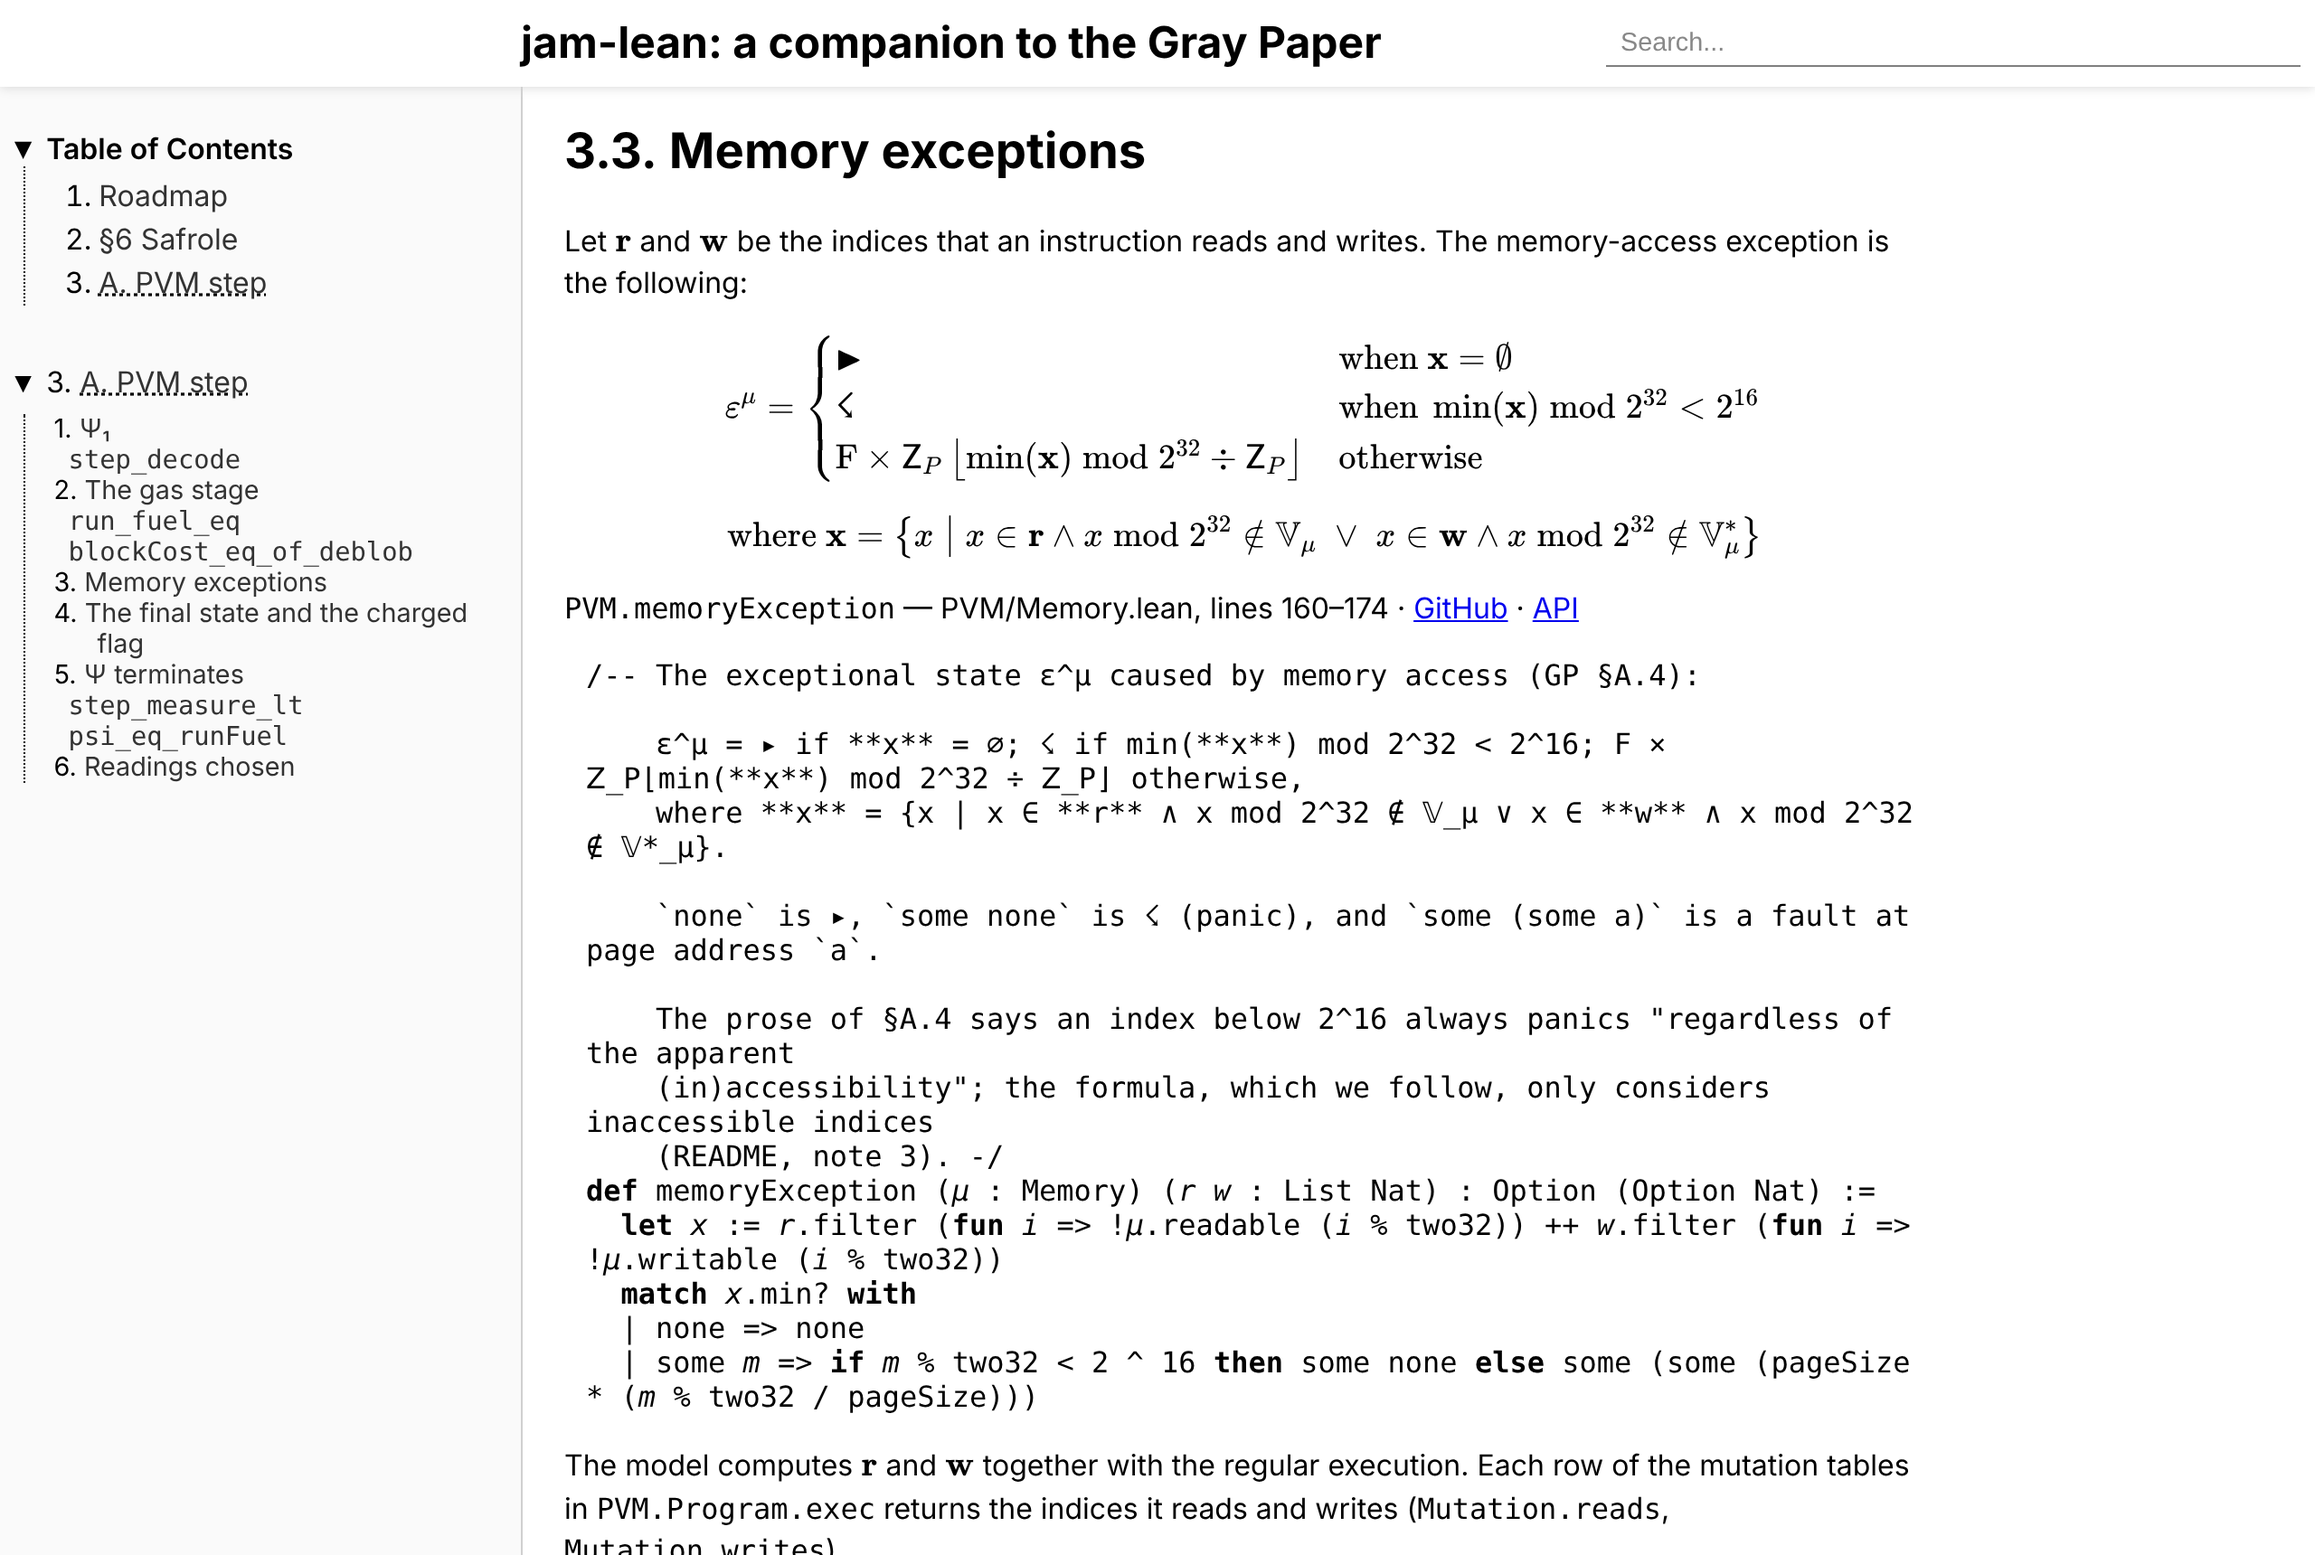
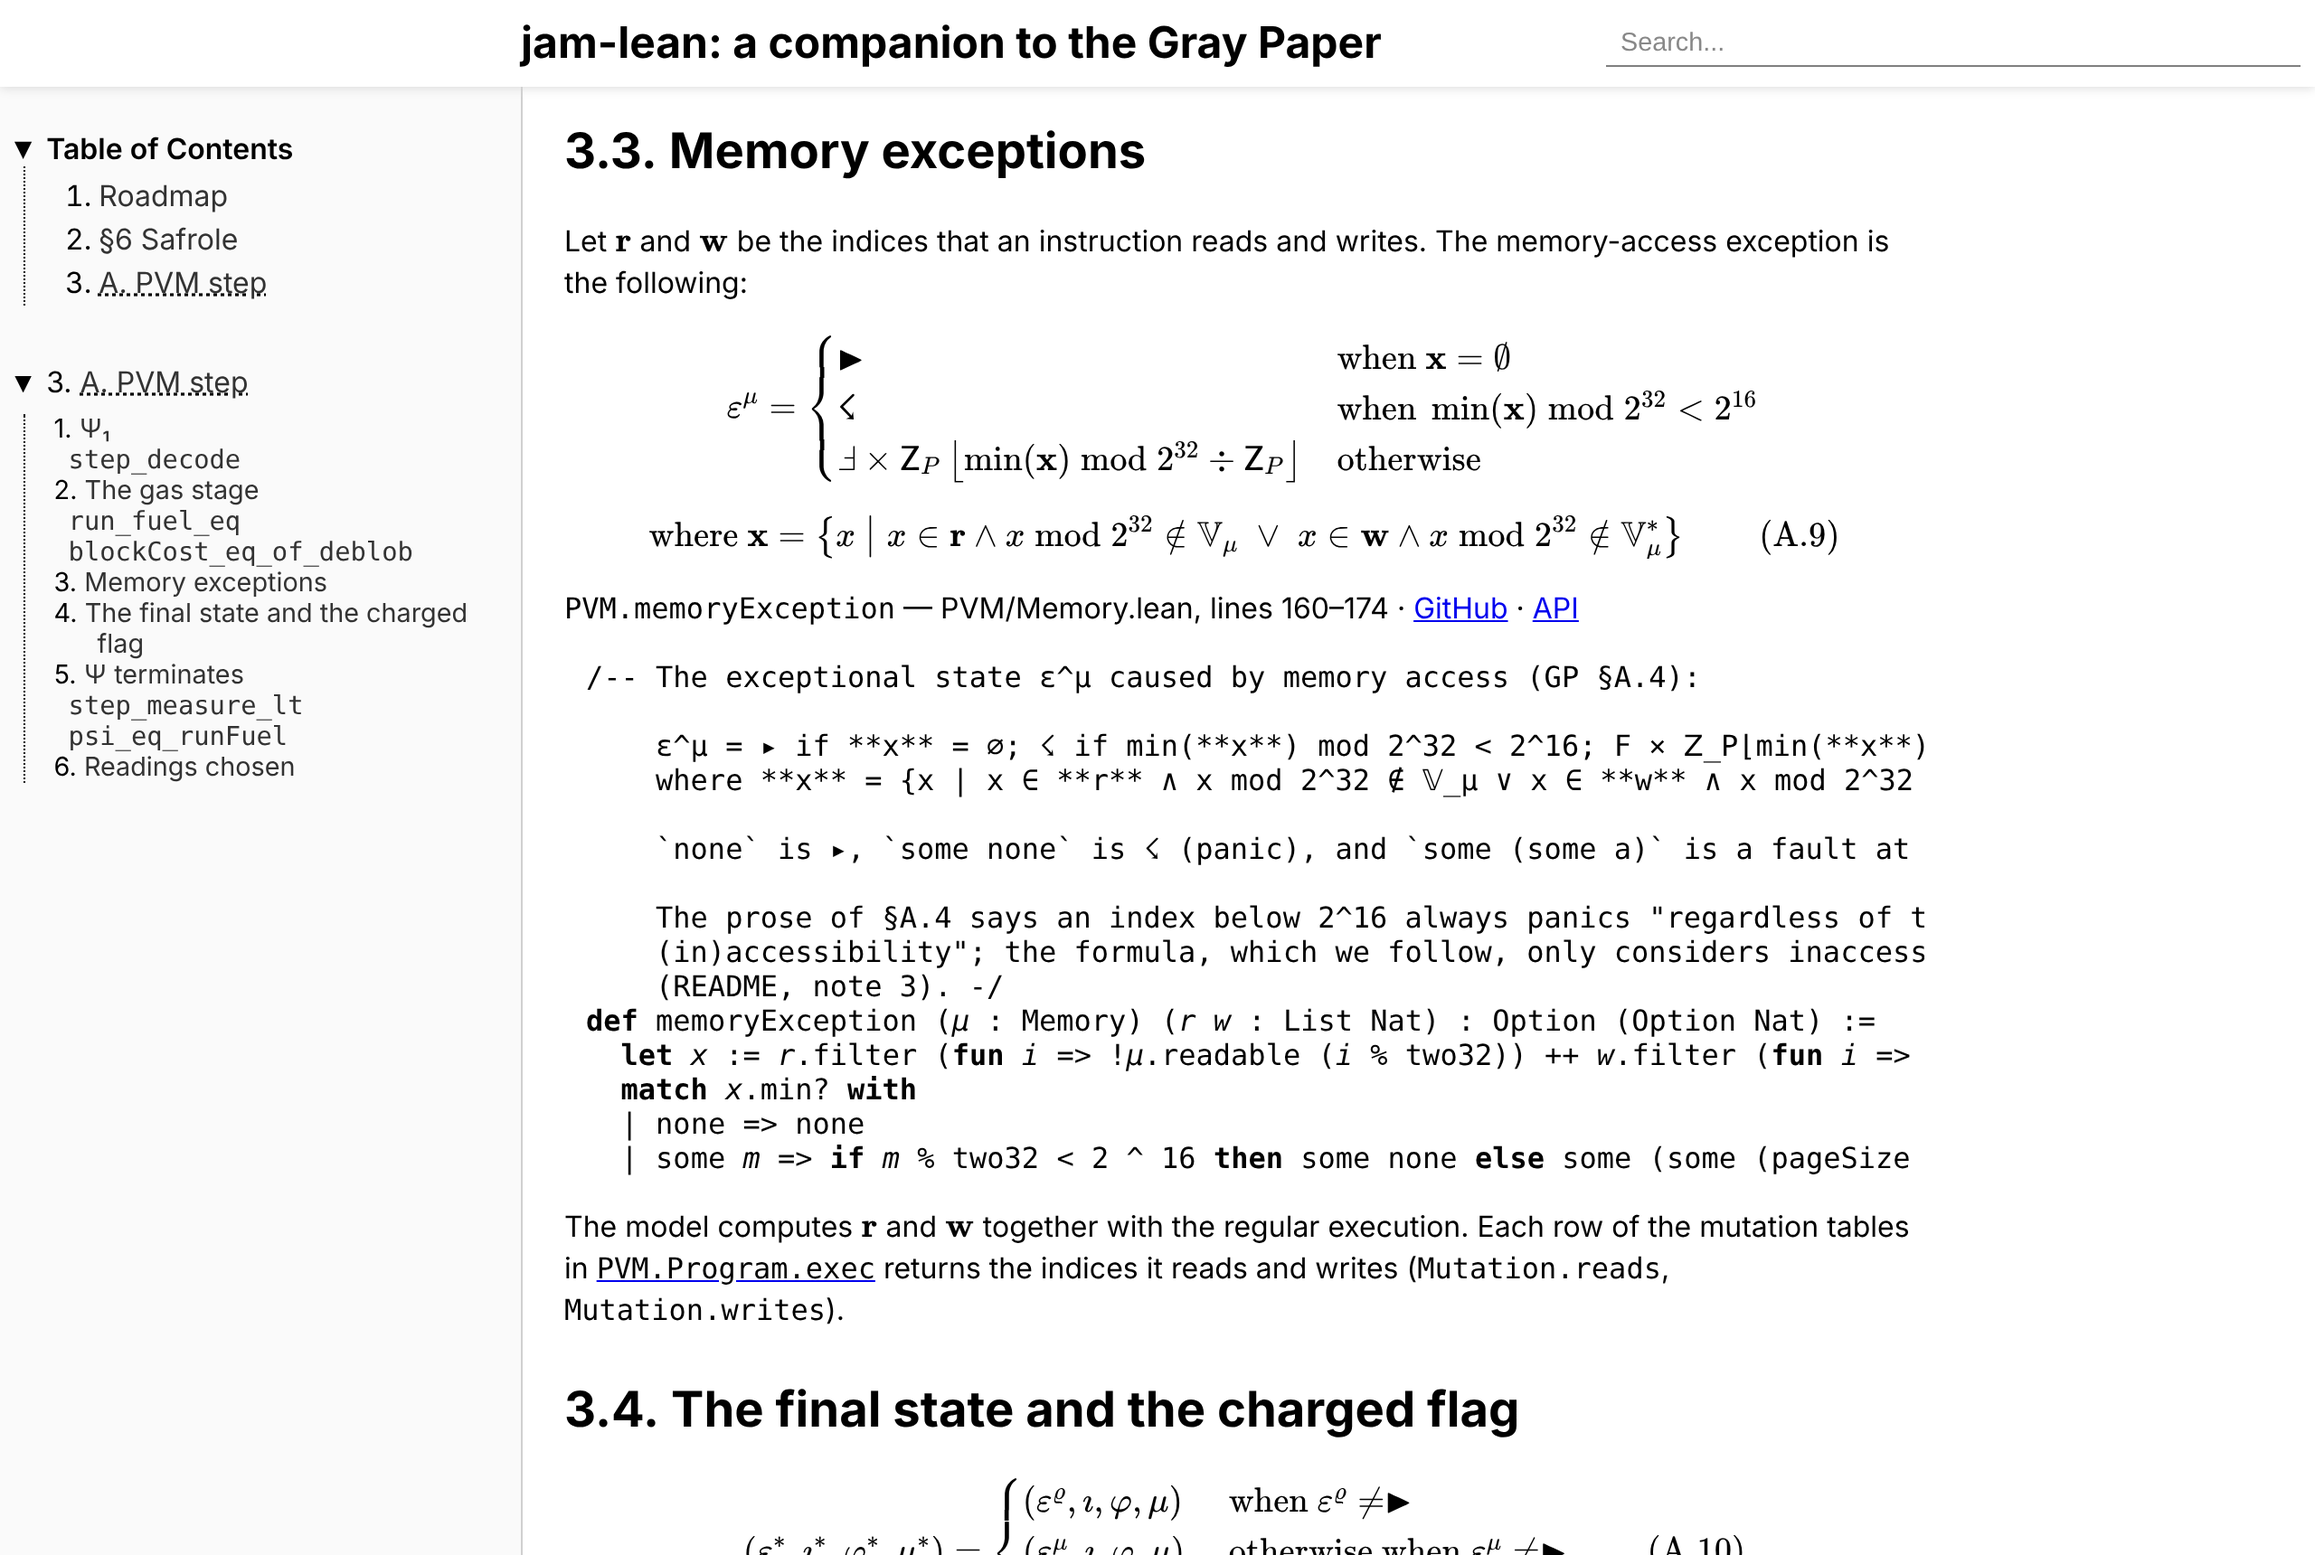
Docs site: independent-review fixes
MUST: registers are φ as in GP v0.8.1 (book and upstream note 1); inline names link to their
doc-gen4 pages ({api} role); a status block on the landing page and the book home.
SHOULD: printed equation numbers next to the LaTeX labels; Safrole theorem docstrings cite (6.5),
(6.35), (6.36); roadmap lists §15-16, §18, §19 and Appendices C-H separately; API index intro,
landing 'where to start' and a JamCrypto root module doc; Tests/*.lean mentions in docstrings link
to GitHub instead of missing API pages; quoted code scrolls instead of wrapping; ħ instead of h̵ in
PVM comments; ℋ moved out of the readings. NICE: Ⅎ for the fault, fuller byline, the paper's tag.
Text-only changes in JAM/, PVM/ and JamCrypto.lean.

Claude-Session: https://claude.ai/code/session_01FAPLsaPzPTn9T3iJgCH8tS

diff --git a/docs/site/landing/index.html b/docs/site/landing/index.html
@@ -15,7 +15,10 @@
   h1 { font-size: 1.9rem; margin: 0 0 .25rem; }
   p.sub { color: var(--muted); margin: 0 0 2rem; }
   a { color: var(--link); }
+  h2 { font-size: 1.15rem; margin: 2rem 0 .5rem; }
   ul { list-style: none; padding: 0; }
+  ul.status { list-style: disc; padding-left: 1.25rem; }
+  ul.status li { border: 0; padding: .2rem 0; }
   li { border-top: 1px solid var(--rule); padding: 1rem 0; }
   li a { font-weight: 600; font-size: 1.1rem; }
   li p { margin: .25rem 0 0; color: var(--muted); }
@@ -26,6 +29,25 @@
   <h1>jam-lean</h1>
   <p class="sub">A Lean 4 model of JAM from the Gray Paper v0.8.1, used to prove theorems about real
   compiled service binaries.</p>
+  <h2>Where to start</h2>
+  <p>New to the model? Read the <a href="book/">companion</a>'s status and one pilot chapter, then
+  follow its links into the API reference. In the API reference, start at the library roots:
+  <a href="api/JAM.html"><code>JAM</code></a> (the protocol, Appendix B and §4–§19),
+  <a href="api/PVM.html"><code>PVM</code></a> (Appendix A) and
+  <a href="api/JamCrypto.html"><code>JamCrypto</code></a> (the cryptography, in plain Lean).</p>
+
+  <h2>Status</h2>
+  <ul class="status">
+    <li>The companion is a pilot: two chapters are written, and the rest of the paper is a roadmap.</li>
+    <li>The model follows GP v0.8.1 but runs the GP v0.8.0 test vectors (no v0.8.1 vectors are
+      published yet); the accumulate vectors and block import over traces are suspended until they are.</li>
+    <li>Proofs about real service binaries were last checked against the v0.8.0 model.</li>
+    <li>jam-lean is a specification model for proofs: not a node, and not audited.</li>
+    <li>To build and test it, see the <a href="https://github.com/ascrivener/jam-lean#building-and-running">README</a>;
+      report errors as <a href="https://github.com/ascrivener/jam-lean/issues">GitHub issues</a>.</li>
+  </ul>
+
+  <h2>Contents</h2>
   <ul>
     <li><a href="book/">A Companion to the Gray Paper</a>
       <p>The paper's equations next to the Lean definitions that implement them (read from the

diff --git a/docs/site/landing/api-intro.html b/docs/site/landing/api-intro.html
@@ -1,0 +1,11 @@
+<h1>jam-lean API reference</h1>
+<p>Every definition and theorem of the jam-lean model, a Lean 4 model of JAM from the Gray Paper
+v0.8.1. Docstrings cite the paper's section and equation. Start at a library root:</p>
+<ul>
+<li><a href="./JAM.html"><code>JAM</code></a>: the protocol (Appendix B, §4–§19) built on the PVM;</li>
+<li><a href="./PVM.html"><code>PVM</code></a>: the Polkadot Virtual Machine (Appendix A);</li>
+<li><a href="./JamCrypto.html"><code>JamCrypto</code></a>: the model's cryptography parameter, implemented in plain Lean.</li>
+</ul>
+<p>The modules under <code>Init</code>, <code>Std</code>, <code>Lean</code> and <code>Lake</code>
+are Lean's own. See also <a href="../book/">A Companion to the Gray Paper</a> and the
+<a href="https://github.com/ascrivener/jam-lean">source on GitHub</a>.</p>

diff --git a/docs/upstream-candidates.md b/docs/upstream-candidates.md
@@ -17,7 +17,7 @@ Inconsistencies, where the paper contradicts itself:
 
 | Note | Section | Finding |
 |---|---|---|
-| 1 | §A.10 | 𝔓_S compares ω_A = ω_D, which read literally compares register values. The gas model has no values, so it must mean the indices r_A = r_D. |
+| 1 | §A.10 | 𝔓_S compares φ_A = φ_D (the paper writes the registers φ), which read literally compares register values. The gas model has no values, so it must mean the indices r_A = r_D. |
 | 3 | §A.4 | The prose says RAM below 2^16 always panics, but the formula for ε^μ only considers inaccessible indices. |
 
 Gaps, where the paper leaves behaviour undefined:
